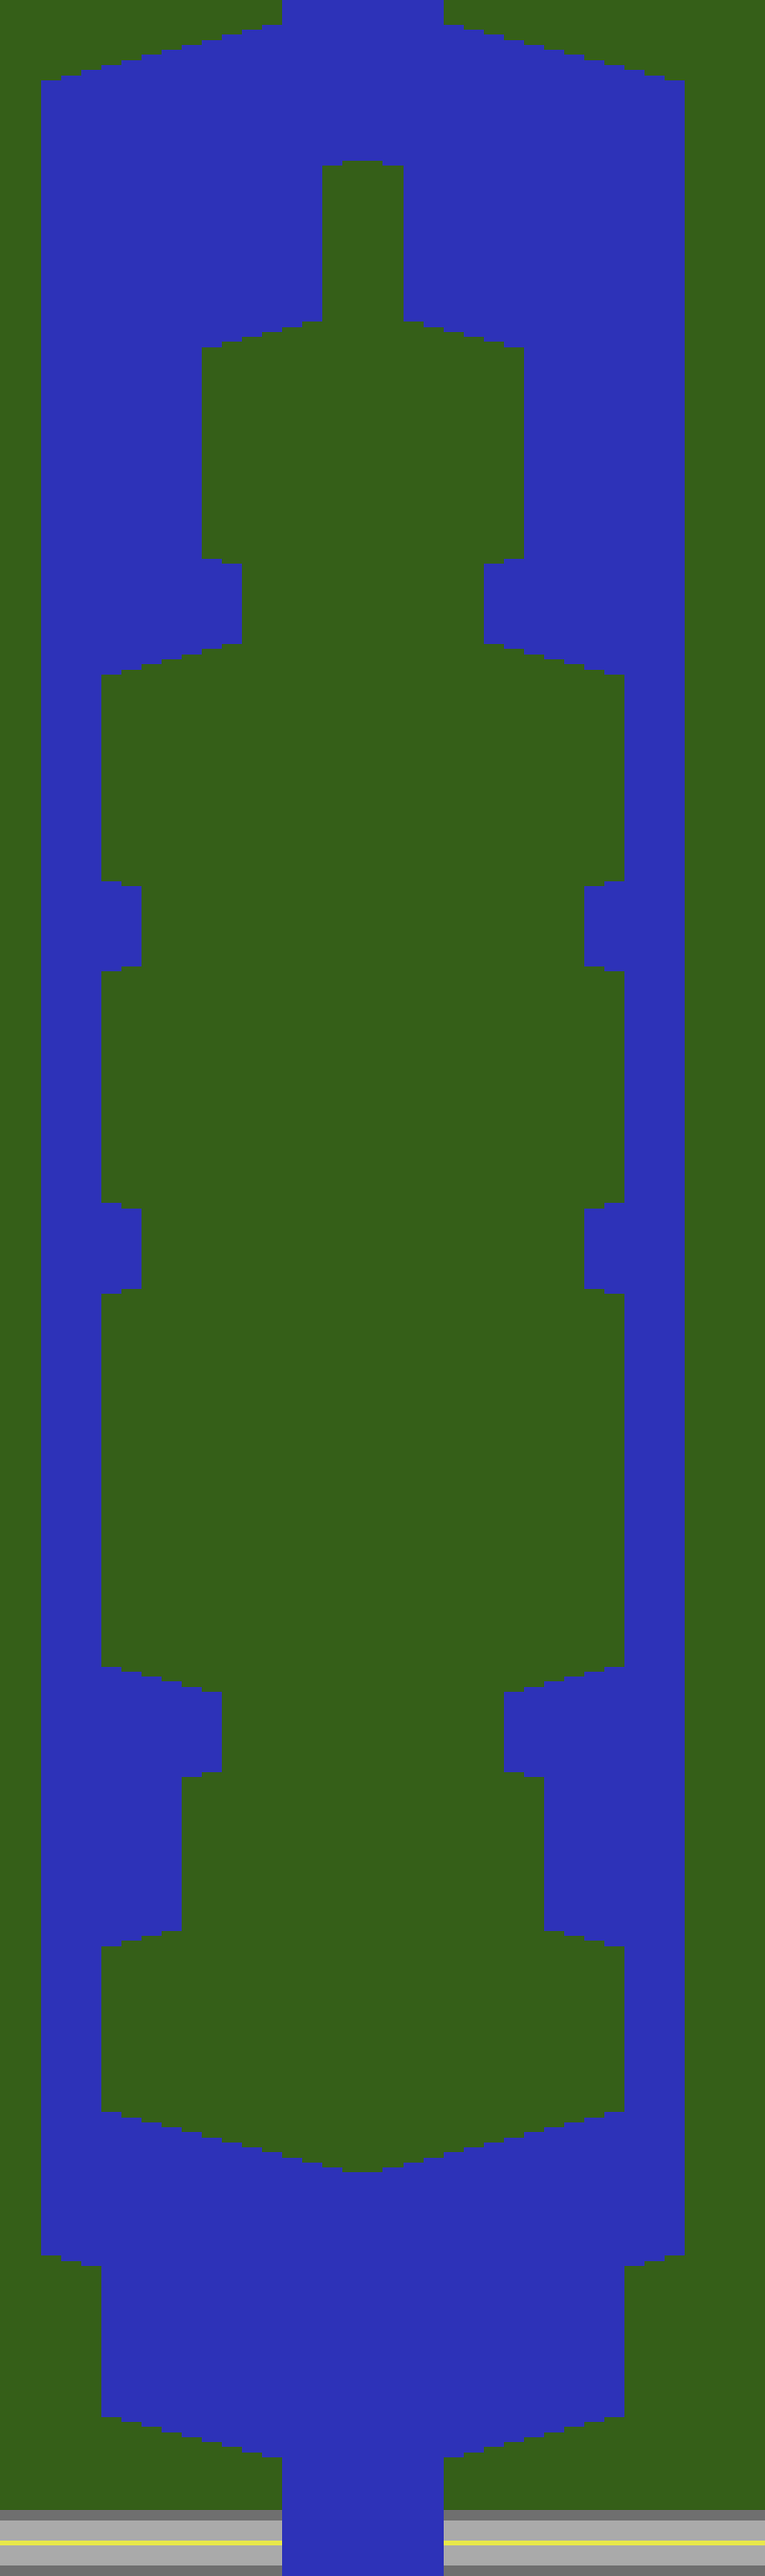
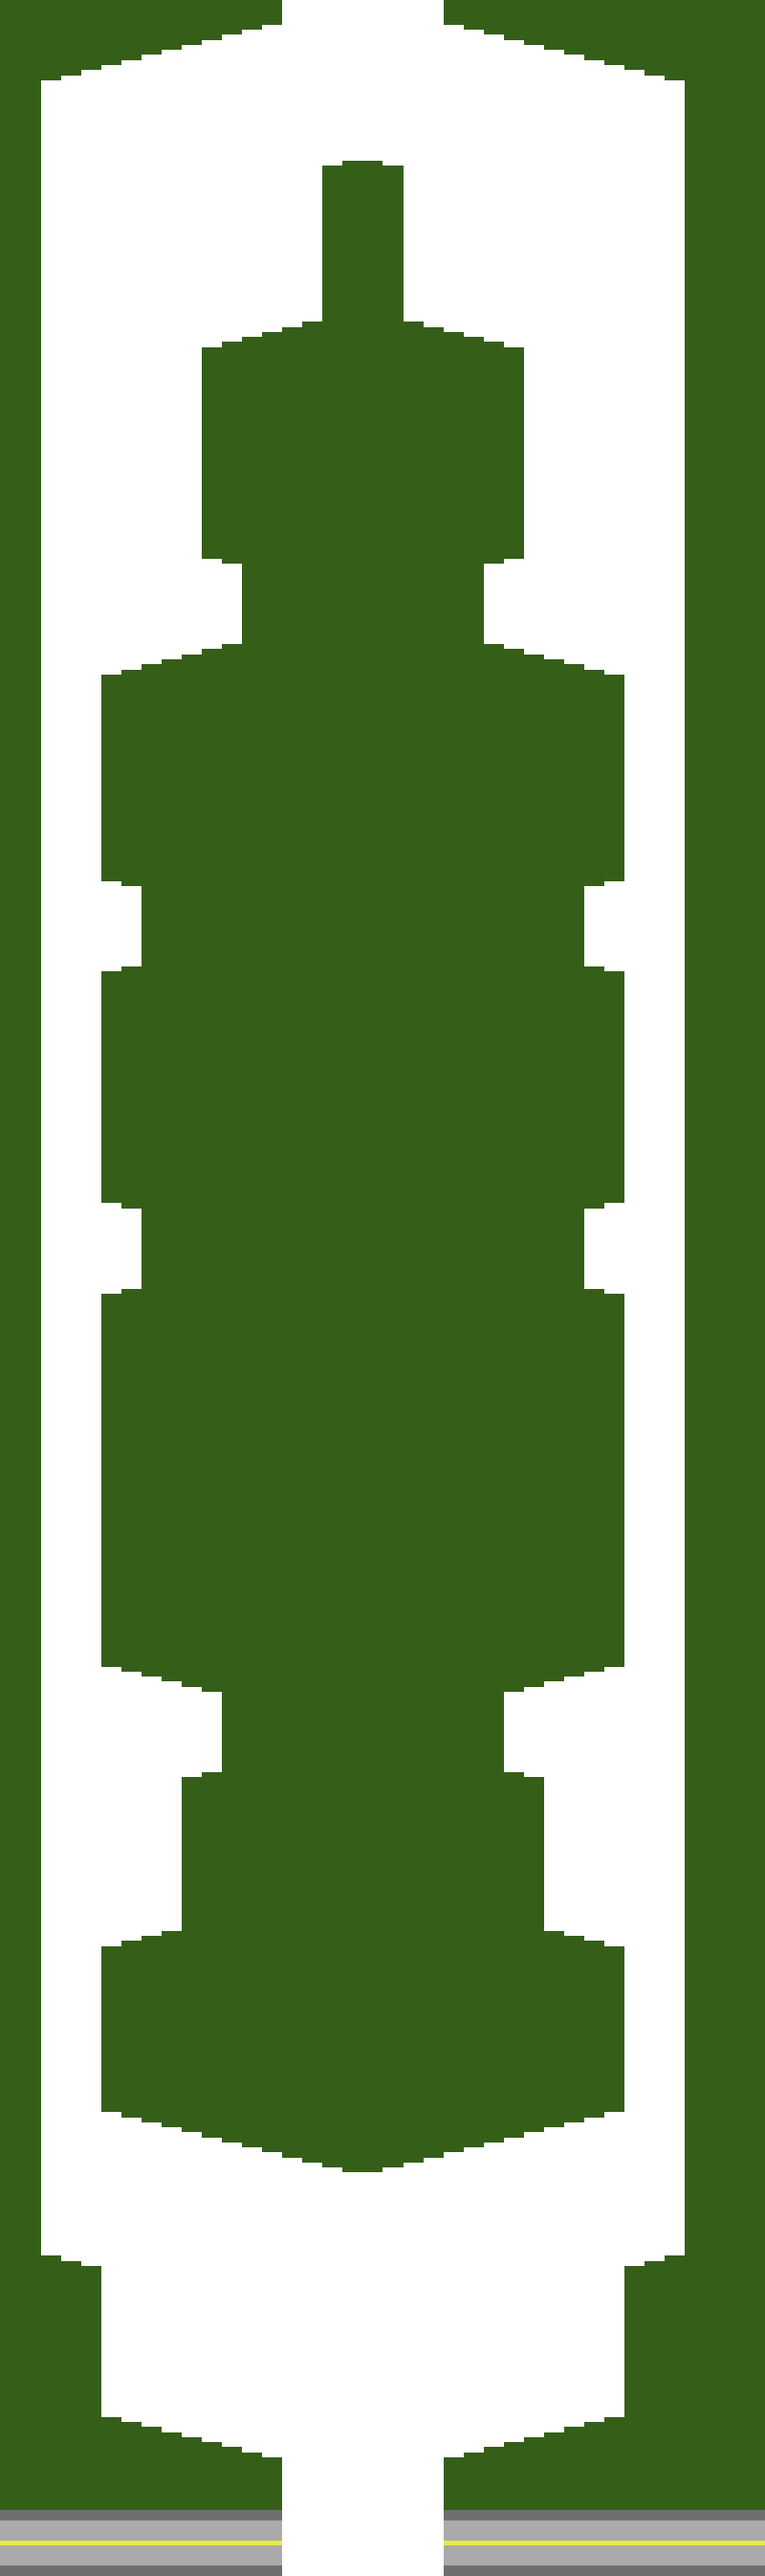
23 flash bg when bridge blows up

diff --git a/js/game.js b/js/game.js
@@ -195,23 +195,6 @@ class Game {
 	}
 	//*** END Helicopter code ***
 
-	realUpdate() {
-		if (this.play) {
-			this.fuel_level -= 0.1;
-			if (this.fuel_level < this.minFuel) this.fuel_level = this.minFuel;
-			this.bg.update();
-			this.plane.update();
-			this.shot.update();
-			this.hud.updateIndicator(this.fuel_level);
-			this.hud.displayMsg(this.displayMsg);
-			this.hud.updateScore(Math.round(this.fuel_level)/*this.score*/);
-		} else {
-			this.bg.update();
-			this.hud.displayMsg(this.displayMsg);
-			this.hud.updateScore(Math.round(this.fuel_level)/*this.score*/);
-		}
-	}
-
 	resetObjects(level) {
 		let hd = CC.houseData[level-1];
 		for (let ii=0; ii<hd.length; ii++) {
@@ -252,7 +235,7 @@ class Game {
 		this.updateRenderOn();
 	}
 
-	// load level 1 & move to beginning
+	// load level 1 & move to beginning - start game over
 	moveToLevelOne = () => {
 		this.updateRenderOff();
 		this.bg = new Background([CC.maps[1], CC.maps[0]], false);
@@ -263,6 +246,23 @@ class Game {
 		this.play = false;
 		game.hud.lives = game.hud.maxLives;
 		this.updateRenderOff();
+	}
+
+	realUpdate() {
+		if (this.play) {
+			this.fuel_level -= 0.1;
+			if (this.fuel_level < this.minFuel) this.fuel_level = this.minFuel;
+			this.bg.update();
+			this.plane.update();
+			this.shot.update();
+			this.hud.updateIndicator(this.fuel_level);
+			this.hud.displayMsg(this.displayMsg);
+			this.hud.updateScore(Math.round(this.fuel_level)/*this.score*/);
+		} else {
+			this.bg.update();
+			this.hud.displayMsg(this.displayMsg);
+			this.hud.updateScore(Math.round(this.fuel_level)/*this.score*/);
+		}
 	}
 
 	realRender() {

diff --git a/js/constants.js b/js/constants.js
@@ -46,8 +46,8 @@ let CC = {
 	15-tree, 16-trunk), (17-support, 18-board1- 19-board2, (1-banner),(13-shot))
 	*/
 	clr:
-		//     0      1-yellow      2-lt green   3          4          5          6         7
-		[  '#000000', '#E8E84A', '#6E9C42', '#2D32B8', '#D2A44A', '#004030', '#000089', '#000000',
+		//     0      1-yellow   2-lt green   3-dk blue      4          5          6         7
+		[  '#000000', '#E8E84A', '#6E9C42',   '#2D32B8', '#D2A44A', '#004030', '#000089', '#000000',
     	//     8          9          10        11         12         13          14        15   
            '#A33915', '#54A0C5', '#6F6F6F', '#AAAAAA', '#D65C5C', '#D6D6D6', '#8E8E8E', '#9ED065',
     	//     16        17         18         19         20         21         22        23
@@ -55,9 +55,12 @@ let CC = {
 		// 24-dkgreen
 		   '#355F18'],
 	
-	yellow: 0,	// plane color
-	ltgreen: 0,	// terrain color of repeating levels
-	dkgreen: 0,	// terrain color of non-repeating levels
+	yellow: 0,		// plane color
+	ltgreen: 0,		// terrain color of repeating levels
+	dkgreen: 0,		// terrain color of non-repeating levels
+	waterblue: 0,	// color of water
+	flashred: '#ab1919',		// flash bg red when bridge blows up
+	bgColor: 0,		// background color-used in Background class->render()
 
 	bridgeData: {x: 295, y: 2629},
 
@@ -888,4 +891,6 @@ let CC = {
 };
 CC.yellow = CC.clr[1];
 CC.ltgreen = CC.clr[2];
+CC.waterblue = CC.clr[3];
 CC.dkgreen = CC.clr[24];
+CC.bgColor = CC.waterblue;

diff --git a/js/bridge.js b/js/bridge.js
@@ -30,6 +30,15 @@ class Bridge {
 	}
 
 	update = (dy) => {
+        let ii = 1;
+        let blinkLoop = function() {
+            CC.bgColor = (ii % 2 == 0) ? CC.flashred : CC.waterblue;
+            setTimeout(function () {			
+                ii++;
+                if (ii < 10) blinkLoop();
+                else CC.bgColor = CC.waterblue;
+            }, 50);
+        };
         this.y += dy;
         if (!this.isFirstBridge() && this.onScreen()) {
             if (this.collide(game.plane) && !this.out) {
@@ -39,15 +48,17 @@ class Bridge {
                 game.hud.lives--;
                 if (game.hud.lives < 0) game.hud.lives = 0;
                 game.hud.updateLives();
-                console.log("Plane collided with Bridge");    
+                console.log("Plane collided with Bridge");
+                blinkLoop();
             } else if (this.collide(game.shot) && !this.out && game.shot.y >=0) {
                 this.t_expl = 40;
                 this.out = true;
                 game.shot.y = -100;
                 console.log("Shot collided with Bridge");
+                blinkLoop();
             }
         }
-	}
+    }
 
 	render = () => {
         let img = this.shape;

diff --git a/js/plane.js b/js/plane.js
@@ -14,6 +14,7 @@ class Plane {
         this.horiz_speed = 4;
 
         this.t_expl = t_expl;
+        this.restart = false;
     }
 
     losePlane = () => {
@@ -22,7 +23,7 @@ class Plane {
         game.hud.lives--;
         if (game.hud.lives < 0) {   // out of lives -> game over
             game.hud.lives = 0;
-            game.moveToLevelOne();  // start over
+            this.restart = true;    // checked near end of render() below
         }
         game.hud.updateLives();
     }
@@ -73,7 +74,10 @@ class Plane {
         if (this.t_expl) {
             this.t_expl--;
             if (this.t_expl == 0) {
-                game.moveToLevelBegin();    // draw plane @ beginning of level
+                if (this.restart) {
+                    game.moveToLevelOne();          // start over
+                    this.restart = false;
+                } else game.moveToLevelBegin();     // draw plane @ beginning of level
                 this.out = false;
             }
         }

diff --git a/js/shot.js b/js/shot.js
@@ -39,6 +39,6 @@ class Shot {
         }
         noStroke();
         fill(CC.clr[13]);
-        rect(this.x, this.y, this.w, this.h);
+        rect(this.x-4, this.y, this.w, this.h);
     }
 }

diff --git a/js/background.js b/js/background.js
@@ -141,7 +141,7 @@ class Background {
 	}
 
 	render = (dy) => {
-		//background('blue');
+		background(CC.bgColor);
 		this.scroll(0, dy);
 	}
 
